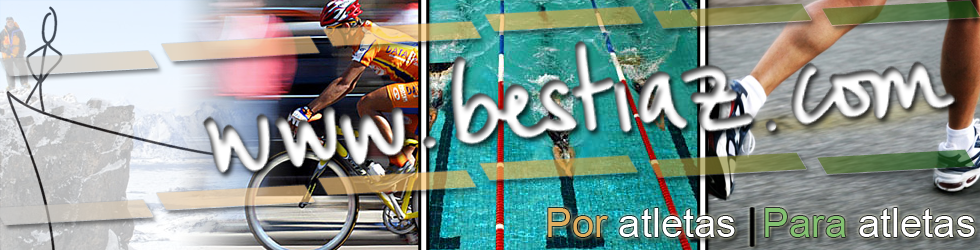
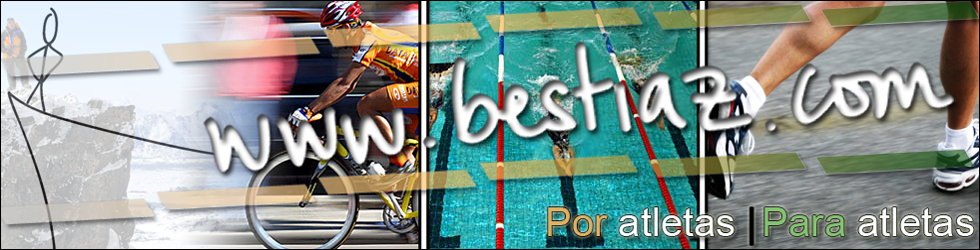
cambio estructural de los botones y el slider

diff --git a/public/stylesheets/besti.css b/public/stylesheets/besti.css
@@ -18,7 +18,7 @@ height:280px;
   border-right:#ccc solid 1px;
   font-size: 1.0em;
 	width: 400px;
-	height:240px;
+	height:265px;
   background:#eee;
   padding:4px;
   float:left;
@@ -28,11 +28,20 @@ height:280px;
 }
 
 #present-right{
-  margin-left:20px;
-  padding:5px;
-  height:240px;
+  margin-left:15px;
+  height:275px;
   float:left;
+	background:#b3ef7d;
+	-moz-box-shadow: 5px 5px 10px #888888; /* Firefox 3.6 and earlier */
+  -webkit-box-shadow: 5px 5px 10px #888888; /* Safari */
+  box-shadow: 5px 5px 10px #888888;
+
+}
+
+#present-slider{
   background:#414141;
+	width:950px;
+	height:260px;
   -moz-box-shadow: 5px 5px 10px #888888; /* Firefox 3.6 and earlier */
   -webkit-box-shadow: 5px 5px 10px #888888; /* Safari */
   box-shadow: 5px 5px 10px #888888;

diff --git a/public/stylesheets/nivo-slider.css b/public/stylesheets/nivo-slider.css
@@ -1,6 +1,6 @@
 #slider {
     position:relative;
-    width:525px; /* Change this to your images width */
+    width:950px; /* Change this to your images width */
     height:230px; /* Change this to your images height */
     background:url(images/loading.gif) no-repeat 50% 50%;
 }
